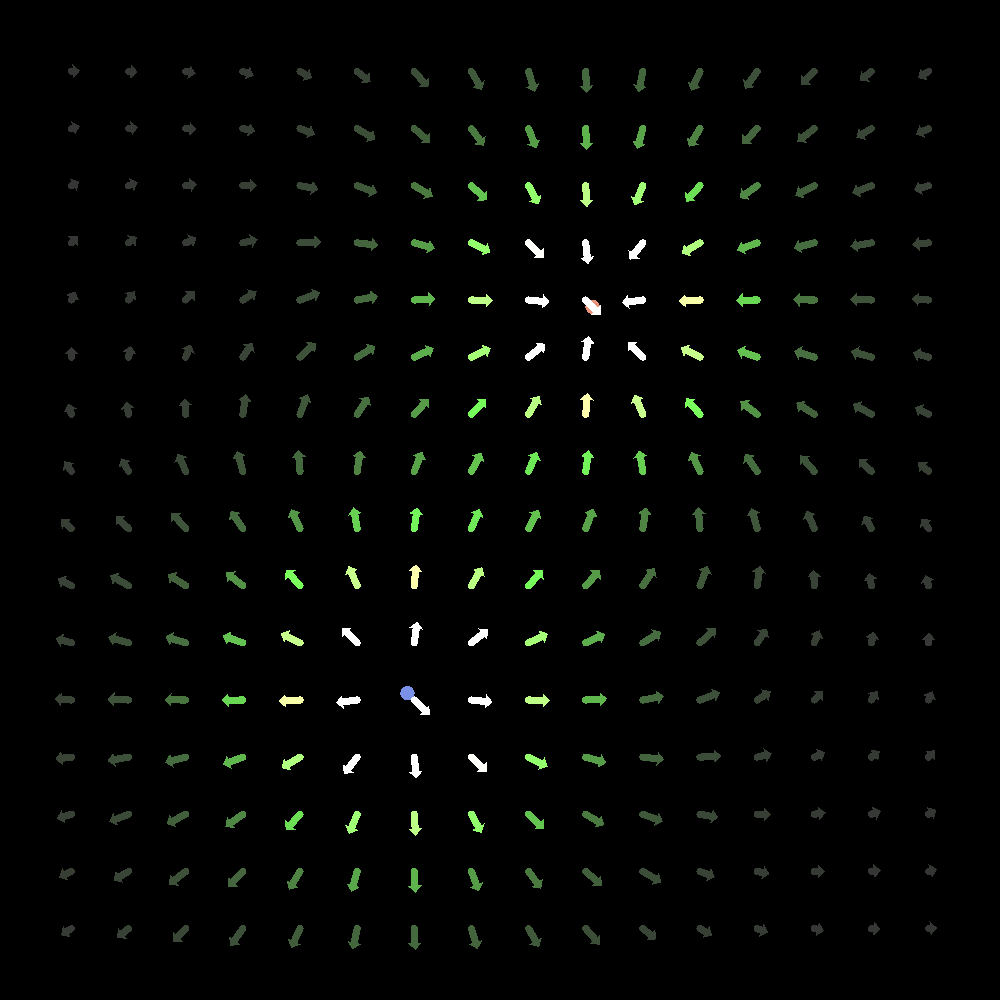
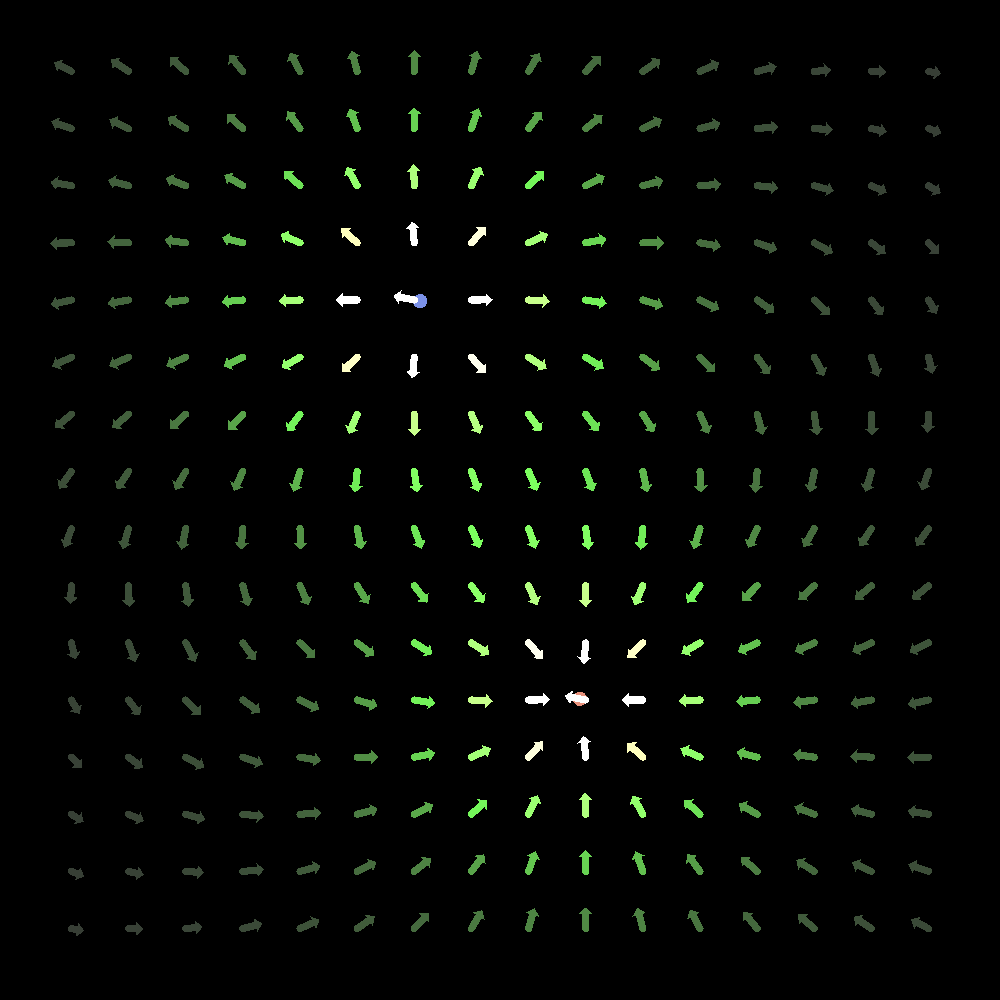
Fixed electric field simulation

diff --git a/code/electric_field.js b/code/electric_field.js
@@ -111,10 +111,6 @@ function DrawVector(FromX, FromY, ToX, ToY)
   }
 }
 
-function setup() {
-  createCanvas(CanvasSizeX, CanvasSizeY, WEBGL);
-}
-
 function CalculateElectricField(ParticleX, ParticleY, X, Y, Charge)
 {
   let DeltaX = ParticleX - X;
@@ -124,15 +120,19 @@ function CalculateElectricField(ParticleX, ParticleY, X, Y, Charge)
 
   Distance = max(Distance, 0.0001);
 
-  let InvDistanceCubed = 1.0 / (Distance * Distance * Distance);
+  let InvDistanceSq = 1.0 / (Distance * Distance);
 
   let DirectionX = DeltaX / Distance;
   let DirectionY = DeltaY / Distance;
 
-  let Ex = Charge * DirectionX * InvDistanceCubed;
-  let Ey = Charge * DirectionY * InvDistanceCubed;
+  let Ex = Charge * DirectionX * InvDistanceSq;
+  let Ey = Charge * DirectionY * InvDistanceSq;
 
   return {X: Ex, Y: Ey};
+}
+
+function setup() {
+  createCanvas(CanvasSizeX, CanvasSizeY, WEBGL);
 }
 
 let Time = 0.0;

diff --git a/README.md b/README.md
@@ -1,2 +1,21 @@
 # p5js
-A collection of small p5.js projects made for fun
+A collection of small p5.js projects made for fun.
+
+The projects themselves are contained in individual files, which makes it convenient if you want to copy and run them in the [p5.js editor](https://editor.p5js.org/).
+
+**Please note that these projects were made out of boredom, so no care was put into optimization. *Performance issues* should be expected.**
+
+## Electric field (`electric_field.js`)
+
+An electric field simulation based on [Maxwell's Equations](https://en.wikipedia.org/wiki/Maxwell's_equations). The constants and variables in the code doesn't necessarily follow any conventional SI unit, however the important parts of the equation are kept to depict the shape of the electric field created by negative and positive charges.
+
+The red circle is a "proton" carrying positive charge. The blue circle is an "electron" carrying negative charge. The electric field is then calculated from these two charges, and the result is rendered to the screen as a vector field. The electric field vectors are clamped to a reasonable length, and larger magnitudes are depicted with color instead:
+
++ Gray:   Lowest
++ Green:  Medium
++ Yellow: High
++ White:  Very high
+
+Below is an image of the simulation running. (`electric_field.png`)
+
+![Electric field simulation](images/electric_field.png "Electric field simulation")
